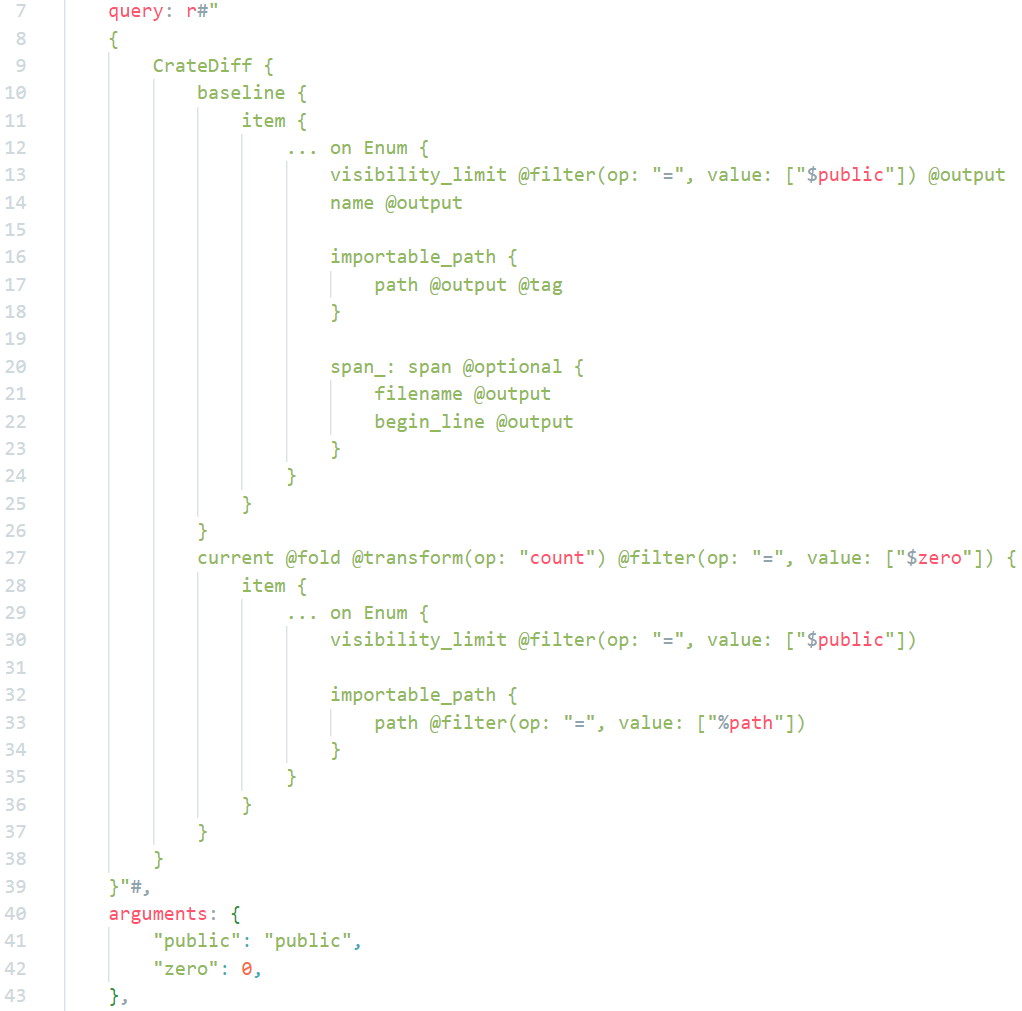
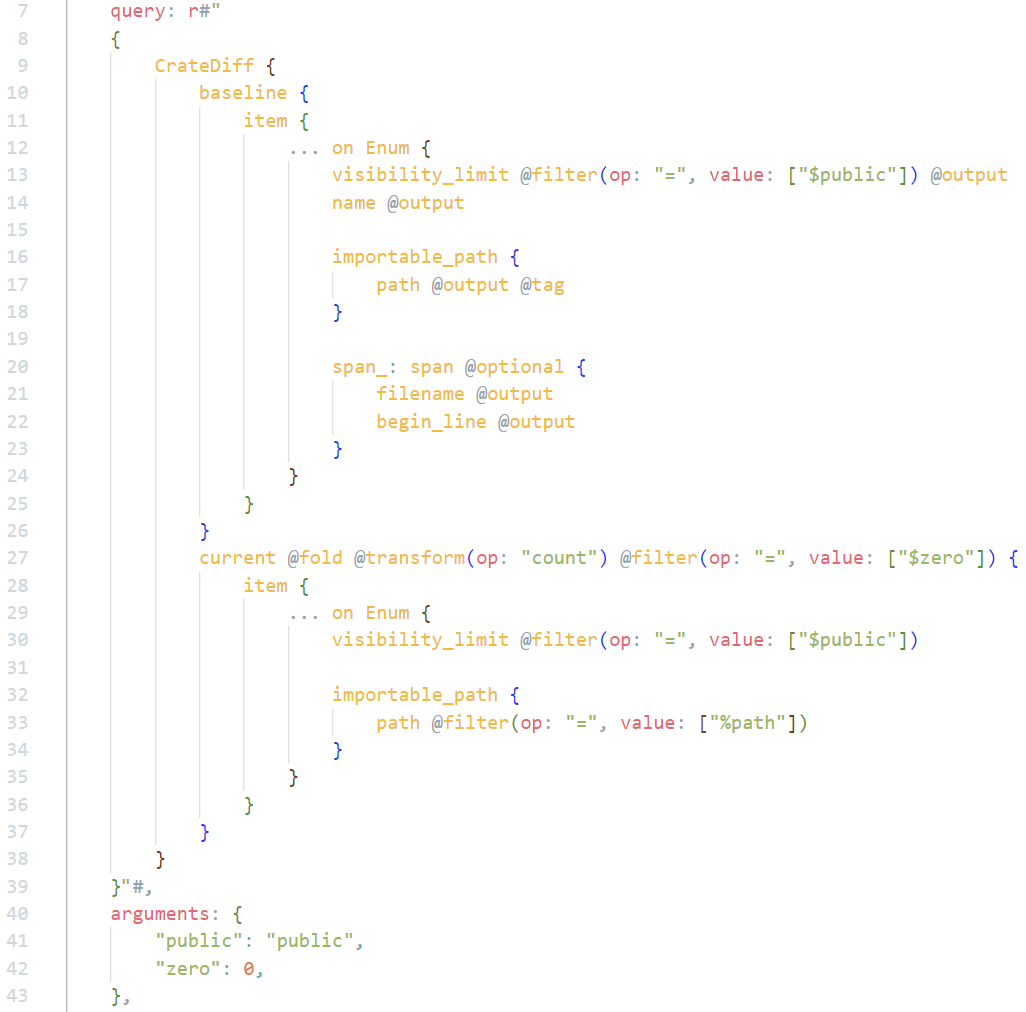
Remove TODO, improve image quality

diff --git a/thesis-en.tex b/thesis-en.tex
@@ -560,7 +560,7 @@ there are four repositories that we have been actively contributing to for the l
 
 \begin{figure}[h]
 	\centering
-	\caption{Diagram of the project structure (TODO: make it more pretty, add github action)}
+	\caption{Diagram of the project structure}
 	\includegraphics[width=\linewidth]{project-structure-diagram.png}
 \end{figure}
 
@@ -628,7 +628,7 @@ elements such as:
 	\item \texttt{@output} -- specifies which values are returned by the query,
 	\item \texttt{@optional} -- edges marked optional are allowed to not exist, in which case \texttt{@output}
 		properties within become \texttt{null} instead of causing that result to be discarded,
-	\item \texttt{... on Enum} -- \texttt{...} narrows that location in the query to the specified kind of items 
+	\item \texttt{... on Enum} -- \texttt{...} narrows that location in the query to the specified kind of items
 		(in this case Enums), discarding all results that had other types of data in that location
 	\item \texttt{\$public}, \texttt{\$zero} -- \texttt{\$} refers to the argument with the same
 		name,
